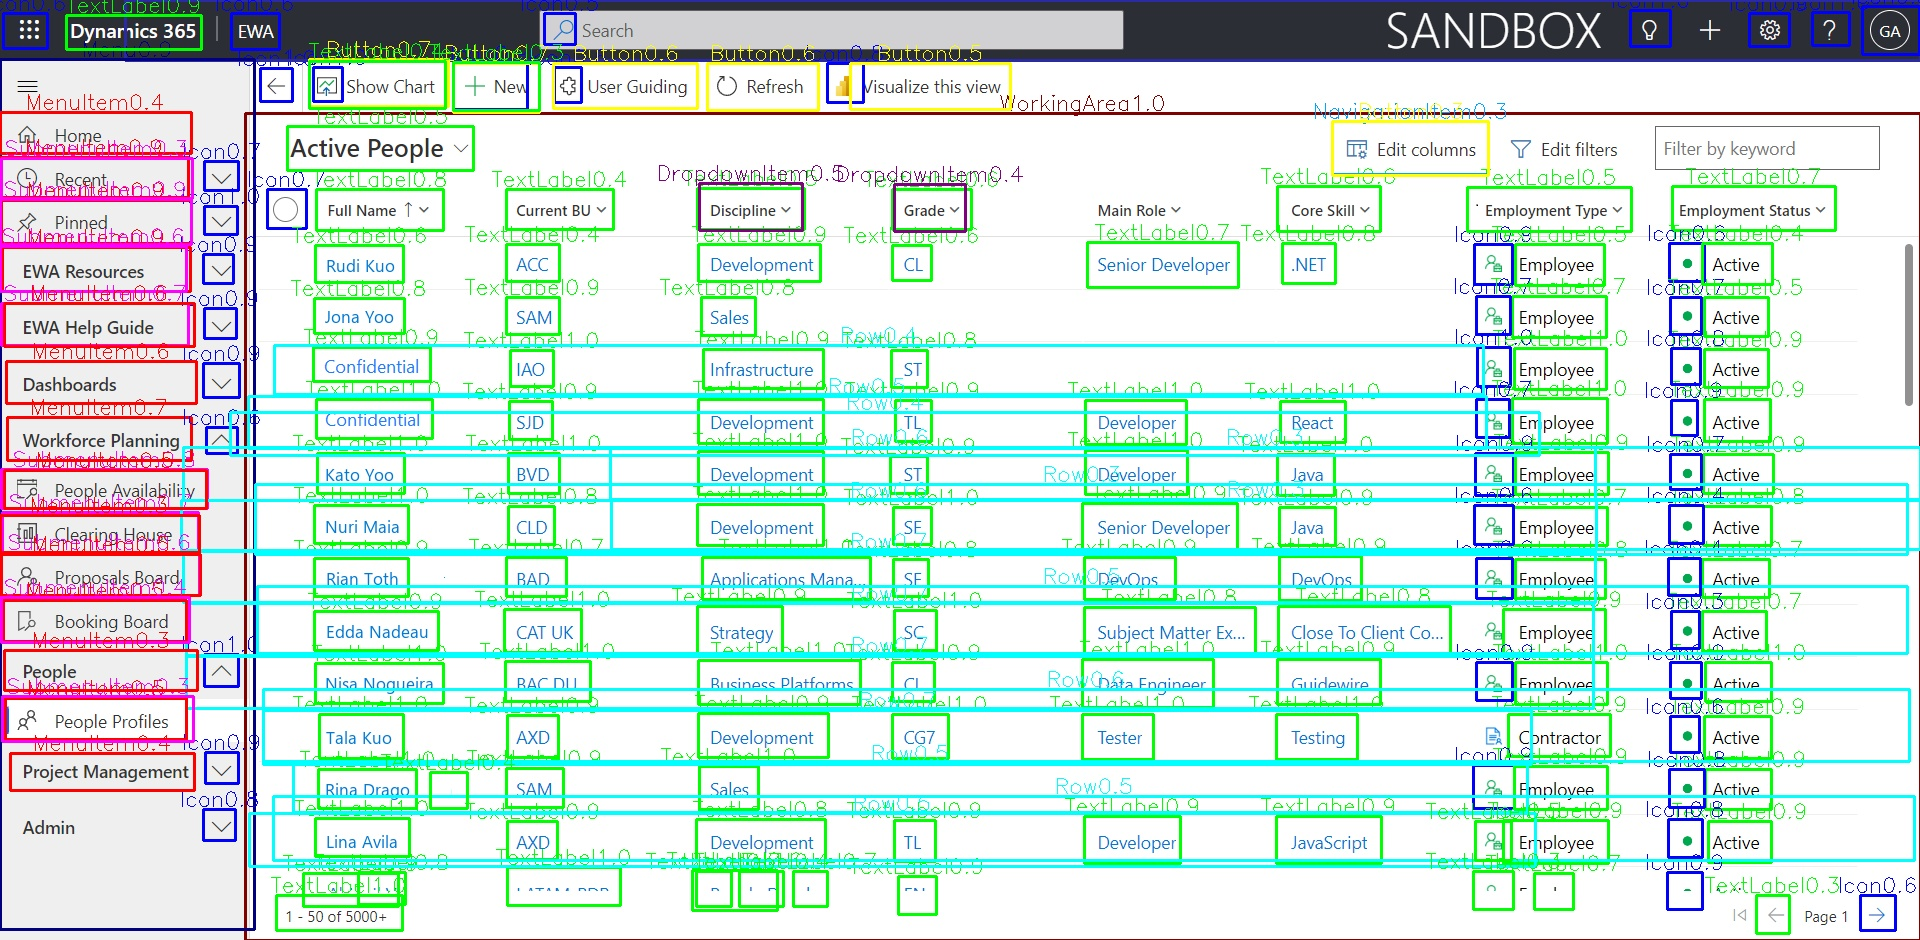
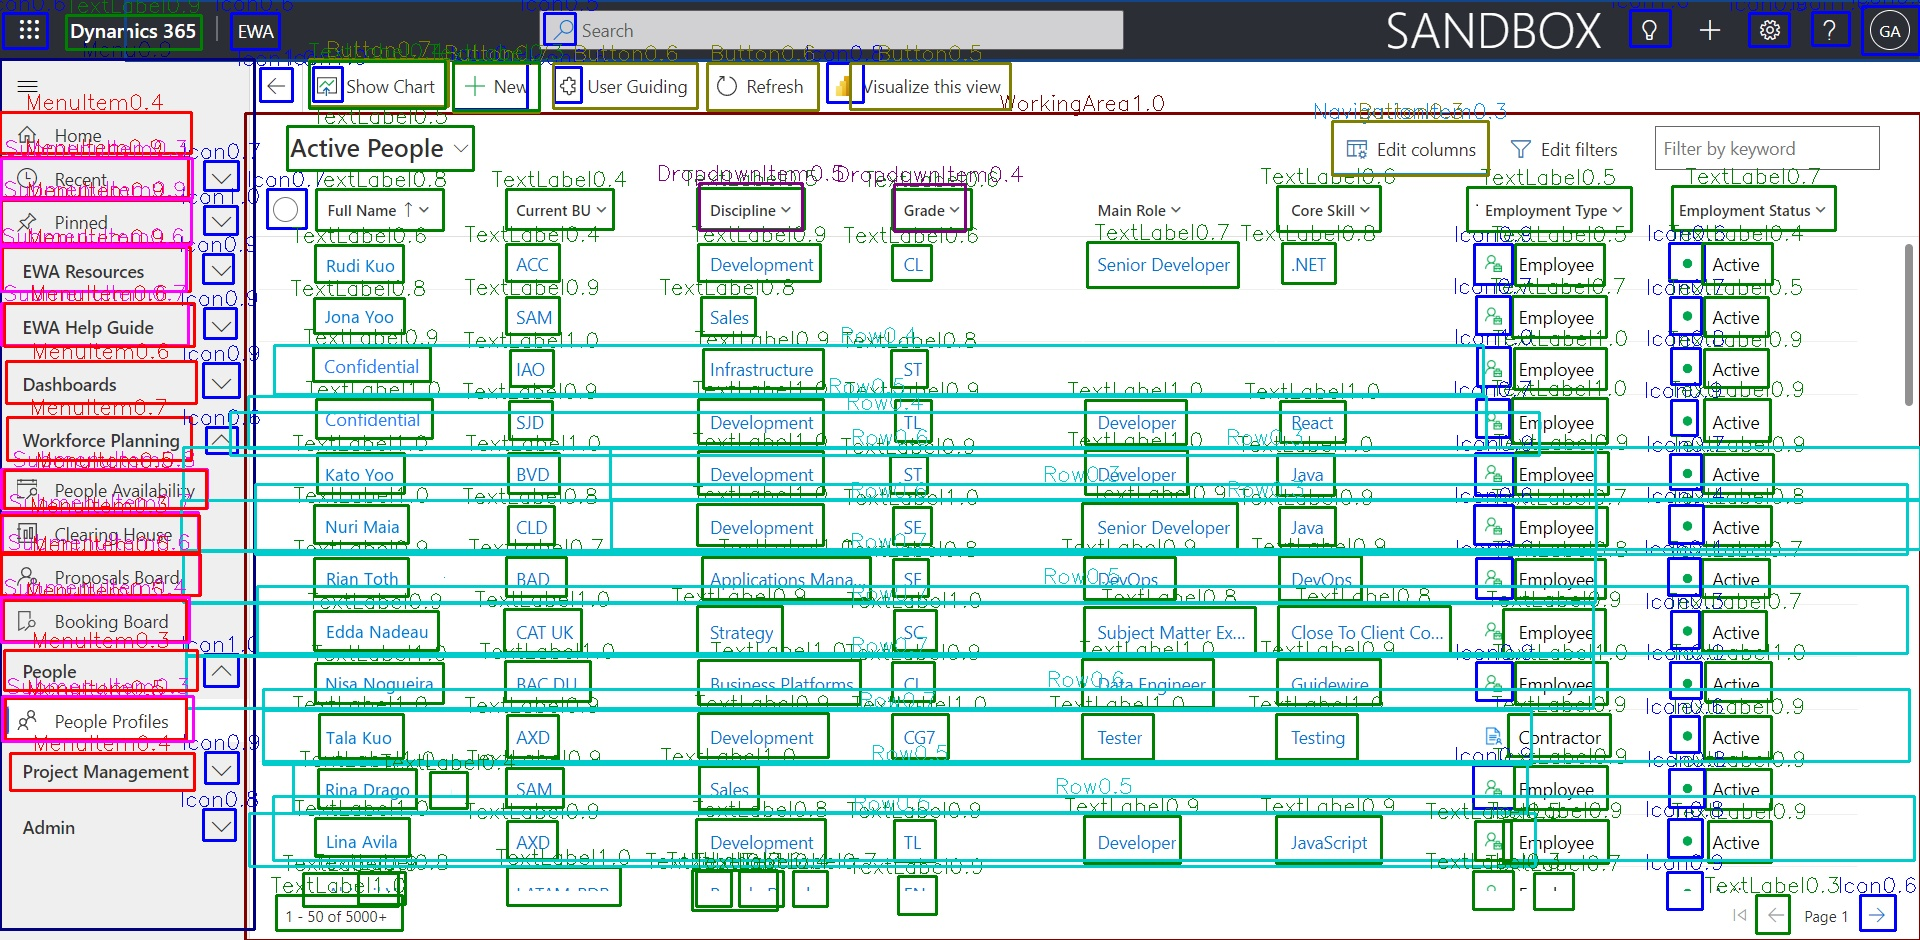
Algoritm UI Element Detection from GUI Images complet!

diff --git a/utils/colors.py b/utils/colors.py
@@ -2,18 +2,19 @@ from enum import Enum
 
 class Color(Enum):
     RED = (255, 0, 0)
-    GREEN = (0, 255, 0)
+    GREEN = (0, 128, 0)  # Darker shade of green
     BLUE = (0, 0, 255)
-    YELLOW = (255, 255, 0)
-    CYAN = (0, 255, 255)
+    YELLOW = (204, 204, 0)  # Darker shade of yellow
+    CYAN = (0, 128, 128)  # Teal, darker than light cyan
     MAGENTA = (255, 0, 255)
-    ORANGE = (255, 165, 0)
+    ORANGE = (255, 140, 0)  # Darker shade of orange
     PURPLE = (128, 0, 128)
     TEAL = (0, 128, 128)
-    PINK = (255, 192, 203)
-    LIME = (0, 255, 0)
-    BROWN = (165, 42, 42)
+    PINK = (255, 105, 180)  # Hot pink, more visible than light pink
+    LIME = (50, 205, 50)  # Lime green, darker and more visible
+    BROWN = (139, 69, 19)  # Darker shade of brown
     MAROON = (128, 0, 0)
     NAVY = (0, 0, 128)
-    OLIVE = (128, 128, 0)
-    GRAY = (128, 128, 128)
+    OLIVE = (85, 107, 47)  # Darker shade of olive
+    GRAY = (96, 96, 96)  # Darker shade of gray
+

diff --git a/menu.py b/menu.py
@@ -184,7 +184,7 @@ def plot_prediction(model: YOLO, results: list, input: str, classes: list[str], 
             # Este o clasa ce TREBUIE sa o identificam!
             if class_name in classes:
                 if class_name not in class_counter:
-                    class_counter[class_name] = 0
+                    class_counter[class_name] = 1
                 else:
                     class_counter[class_name] += 1
                 class_with_index = classes_with_indexs[class_name]
